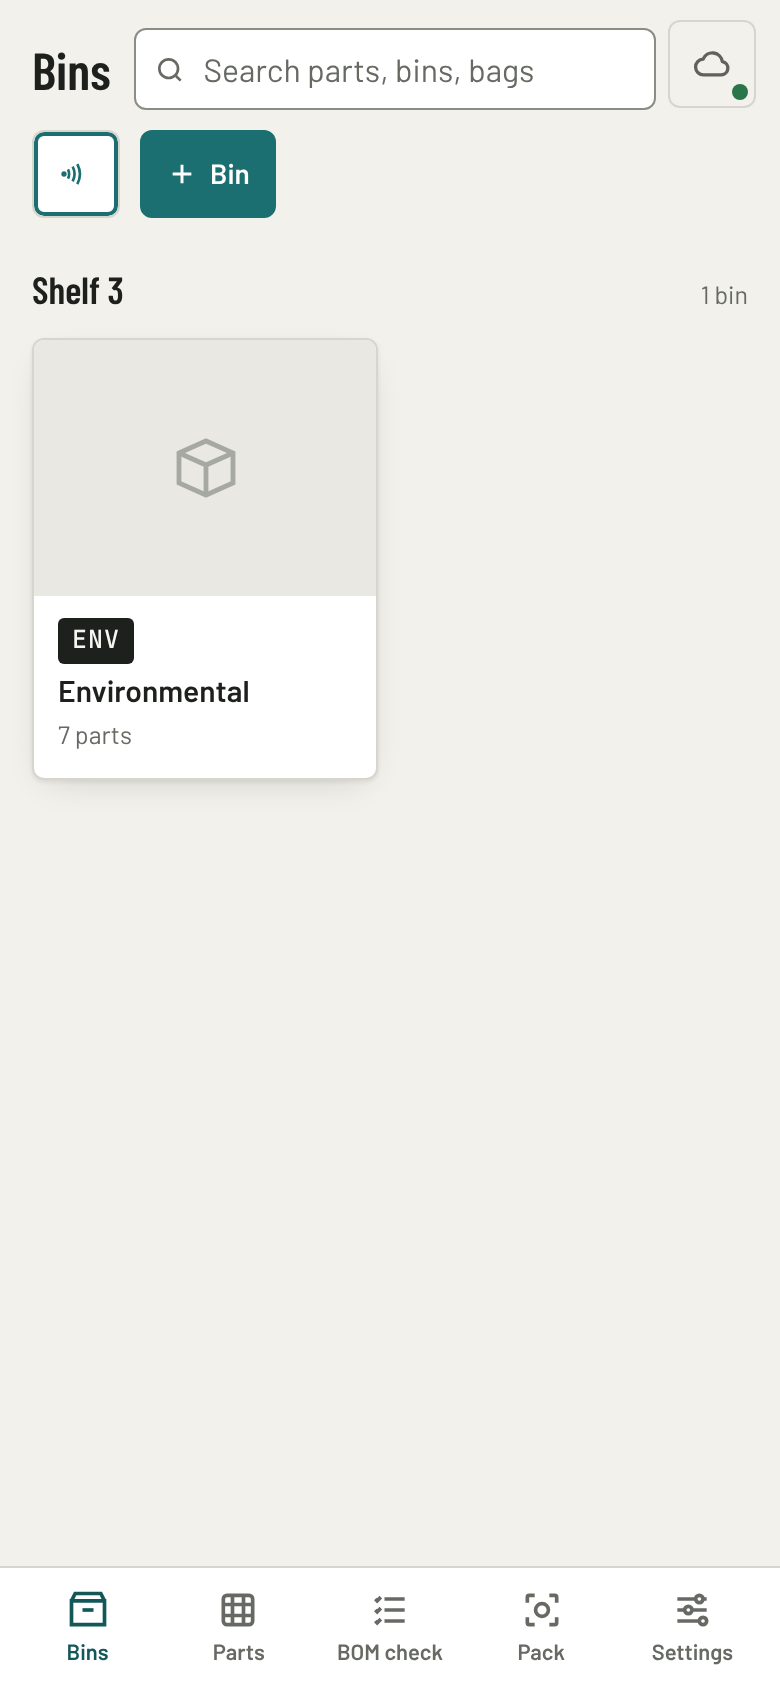
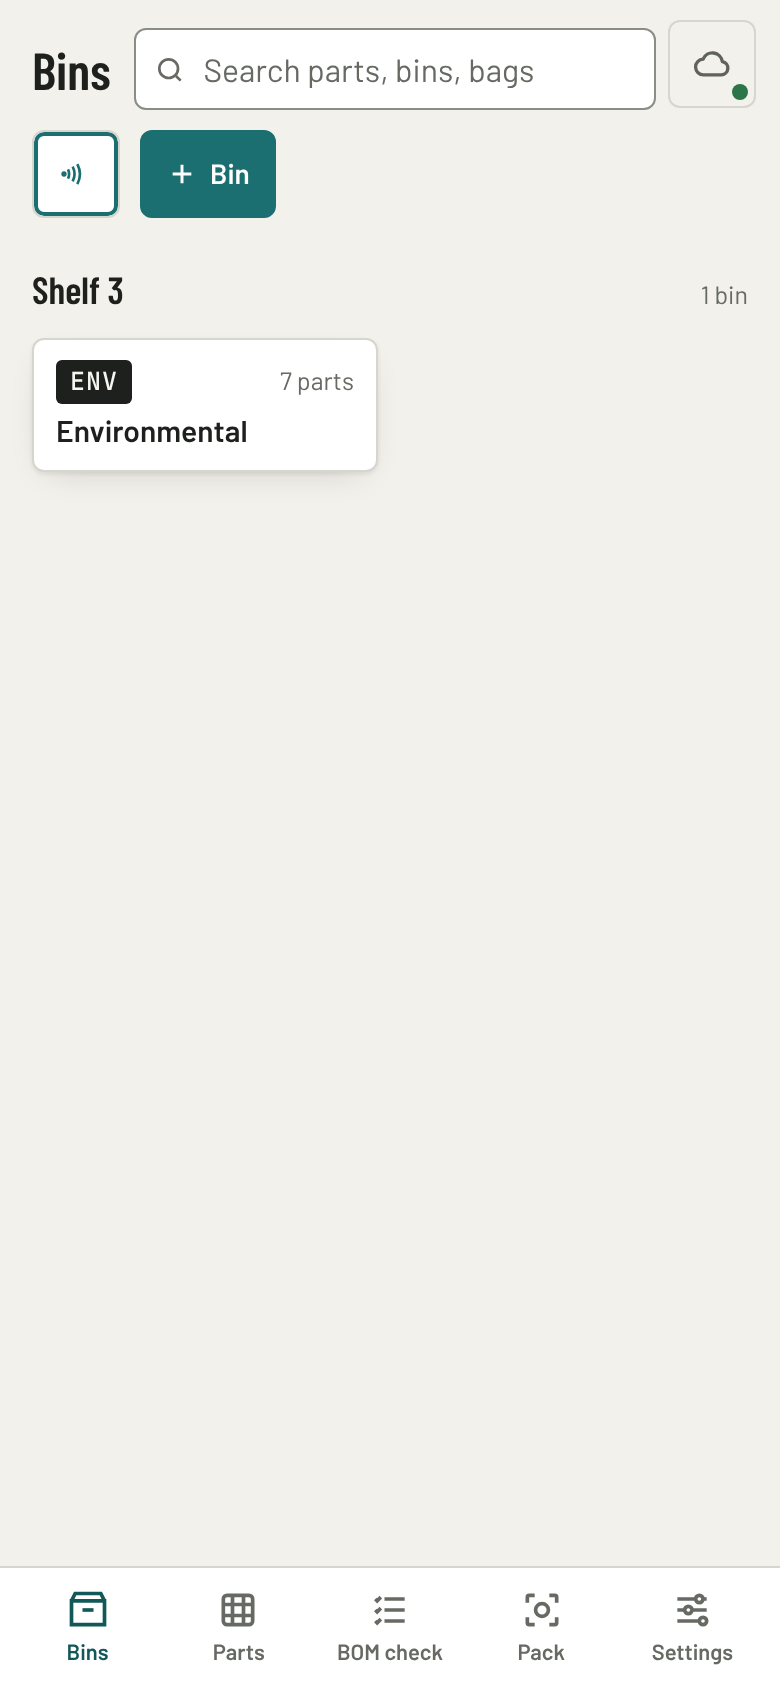
On a phone a bin's tile is its label, count and name, without the picture box
Bin and box tiles on a phone were mostly an empty grey picture box, about 220 px tall, so two rows of bins filled the
screen. At phone width a tile is now the label with its count beside it and the name under them, about 66 px tall, in
the same two columns and bin-label style; a long name is cut short. On a laptop the tiles are as they were. The README's
Bins shot shows the new tile. Answers Mark's "Bin tiles on phones are mostly an empty picture box".

Claude-Session: https://claude.ai/code/session_01PQbLNV3sphK8ujnLfUr9aR

Changed region(s): [[0.0308, 0.1848, 0.4923, 0.3081], [0.0615, 0.3389, 0.3077, 0.4621]]

diff --git a/css/app.css b/css/app.css
@@ -125,6 +125,16 @@ a{color:var(--accent-ink)}
 .bin .body{padding:10px 12px 12px;display:flex;flex-direction:column;gap:4px}
 .bin .name{font-weight:600;line-height:1.25}
 .bin .meta{font-size:12.5px;color:var(--ink3);display:flex;justify-content:space-between;gap:8px}
+/* On a phone a tile is the label, how many and what's in it, about 70 px tall: the empty picture box made it 220 px, so
+   two rows of bins filled the screen. Two columns, as before; on a laptop the tiles are as they were. */
+@media(max-width:760px){
+  .bin .photo{display:none}
+  .bin .body{display:grid;grid-template-columns:auto minmax(0,1fr);align-items:center;gap:4px 8px;padding:9px 11px 10px}
+  .bin .body>div:first-child{grid-area:1/1}
+  .bin .meta{grid-area:1/2;justify-content:flex-end;flex-wrap:wrap;gap:0 8px;text-align:right;line-height:1.3}
+  .bin .name{grid-area:2/1/3/3;white-space:nowrap;overflow:hidden;text-overflow:ellipsis}
+  .bin .name:empty{display:none}
+}
 
 /* ---- lists ---- */
 .list{display:flex;flex-direction:column;border:1px solid var(--line);border-radius:var(--r);background:var(--panel);overflow:hidden}

diff --git a/sw.js b/sw.js
@@ -8,7 +8,7 @@
 // fingerprint of every file in SHELL: change any of them and test/e2e.mjs fails until FILES is changed to match (it
 // says what to), which changes this file, so every copy is made whole again at once.
 const CACHE = 'parts-bin-v6'; // bump the number when the file list changes
-const FILES = '1853fde0'; // test/e2e.mjs checks this
+const FILES = 'a9d5b97d'; // test/e2e.mjs checks this
 const SHELL = [
   './', 'index.html', 'carry.js', 'icon.svg', 'icon-180.png', 'manifest.webmanifest',
   'css/app.css', 'js/app.js', 'js/store.js', 'js/model.js', 'js/sync.js', 'js/ai.js', 'js/inbox.js', 'js/bom.js', 'js/bags.js',
